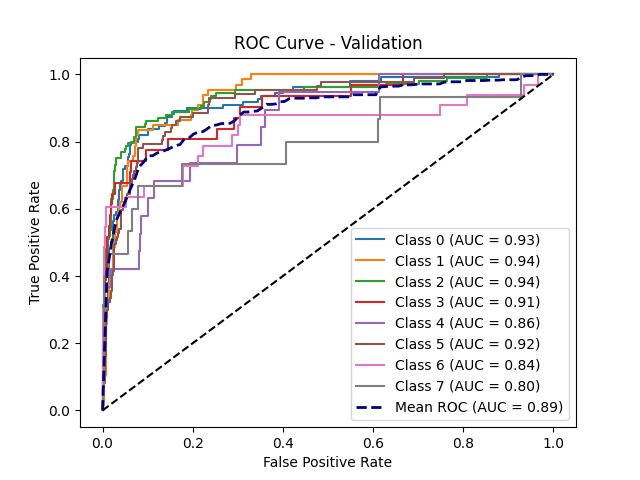
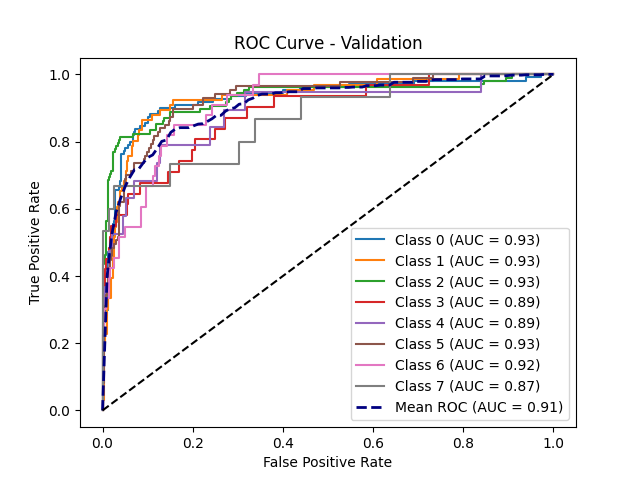
training like pc2 in pc1, with more boundary and aux loss

diff --git a/fusion_models.py b/fusion_models.py
@@ -246,8 +246,8 @@ class MultiModalClassifierWithLogitFusion(nn.Module):
         for i in range(self.num_modalities):
             backbone = timm.create_model(backbone_name, pretrained=False, num_classes=self.backbone_num_classes)
             self._load_backbone_weights(backbone, self.checkpoints[i])
-            if i == 0:
-                self._freeze_backbone(backbone)
+            #if i == 0:
+            #    self._freeze_backbone(backbone)
             self.backbones.append(backbone)
 
         # Project 8-class logits to fusion_dim
@@ -293,6 +293,7 @@ class MultiModalClassifierWithLogitFusion(nn.Module):
         B = imgs[0].shape[0]
         device = imgs[0].device
         fused_feats = []
+        logits_list = []
 
         for i in range(self.num_modalities):
             x = imgs[i]
@@ -305,6 +306,7 @@ class MultiModalClassifierWithLogitFusion(nn.Module):
                 continue
 
             logits = self.backbones[i](x)  # Output shape: (B, 8)
+            logits_list.append(logits)
             proj_feat = self.projs[i](logits)  # Project to fusion_dim
             fused_feats.append(proj_feat)
 
@@ -314,7 +316,7 @@ class MultiModalClassifierWithLogitFusion(nn.Module):
         # Aggregate over modalities
         fused_final = fused_output.mean(dim=1)  # (B, fusion_dim)
         out = self.classifier(fused_final)      # (B, out_dim)
-        return out
+        return out, logits_list
 
 class MultiClassificationTorch(nn.Module): 
     def __init__(self, input_dim=64, num_classes=8, radiomics=False, radiomics_dim=463, 
@@ -344,7 +346,7 @@ class MultiClassificationTorch(nn.Module):
         x_sdf = self.sdf_model(x.mean(dim = 1, keepdim = True))
         x_sdf = self.normalize_sdf(x_sdf)
 
-        lower_thresh = torch.empty(1).uniform_(-0.7, -0.6).item()
+        lower_thresh = torch.empty(1).uniform_(-0.8, -0.75).item()
         upper_thresh = torch.empty(1).uniform_(0.35, 0.45).item()
         center_thresh = torch.empty(1).uniform_(0.1, 0.25).item()
 
@@ -354,9 +356,9 @@ class MultiClassificationTorch(nn.Module):
         x3 = x * boundary_mask
         x4 = x * center_mask
 
-        output = self.fusion_model([x, x3, x4])  # Output: (B, num_classes)
+        output, auxiliary_heads = self.fusion_model([x, x3, x4])  # Output: (B, num_classes)
 
-        return output
+        return output, auxiliary_heads 
 
     def compute_loss(self, x, y, x2_rad=None):
         y = y.float()  # Ensure targets are float for BCE loss
@@ -364,8 +366,11 @@ class MultiClassificationTorch(nn.Module):
             score, tails = self.forward(x, x2_rad)
             loss = self.loss_fn(score, y) + sum(self.loss_fn(t, y) for t in tails)
         else:
-            score = self.forward(x)
+            score, aux_outs = self.forward(x)
             loss = self.loss_fn(score, y) #+ 0.5 * self.loss_fn2(score, y)
+
+            for aux_out in aux_outs:
+                loss += self.loss_fn(aux_out, y) * 0.1 #aux_loss_weight
 
         return loss
 
@@ -384,7 +389,7 @@ class MultiClassificationTorch(nn.Module):
                 else:
                     x, x2, y = batch
                     x, x2, y = x.to(device), x2.to(device), y.to(device)
-                    scores = self.forward(x, x2)
+                    scores,_ = self.forward(x, x2)
 
                 probs = torch.sigmoid(scores)
                 all_probs.append(probs.cpu())
@@ -467,7 +472,7 @@ class BinaryClassificationTorch(nn.Module):
 
         lower_thresh = torch.empty(1).uniform_(-0.45, -0.15).item()
         upper_thresh = torch.empty(1).uniform_(0.35, 0.65).item()
-        center_thresh = torch.empty(1).uniform_(0.1, 0.25).item()
+        center_thresh = torch.empty(1).uniform_(0.3, 0.35).item()
 
         boundary_mask = (x_sdf < upper_thresh) & (x_sdf > lower_thresh)
         center_mask = (x_sdf < center_thresh)

diff --git a/train_fusion_pretrained_model_multilabel.py b/train_fusion_pretrained_model_multilabel.py
@@ -19,7 +19,7 @@ from torch.optim.lr_scheduler import CosineAnnealingWarmRestarts
 SEED = 42
 np.random.seed(SEED); torch.manual_seed(SEED); random.seed(SEED)
 
-max_epochs = 2000
+max_epochs = 4000
 batch_size = 12
 num_classes = 8
 device = torch.device("cuda" if torch.cuda.is_available() else "cpu")
@@ -106,7 +106,7 @@ for epoch in tqdm(range(max_epochs), leave=False):
             if len(batch) == 2:
                 x, y = batch
                 x, y = x.to(device), y.to(device)
-                scores = model(x)
+                scores, _= model(x)
             else:
                 x, x2, y = batch
                 x, x2, y = x.to(device), x2.to(device), y.to(device)
